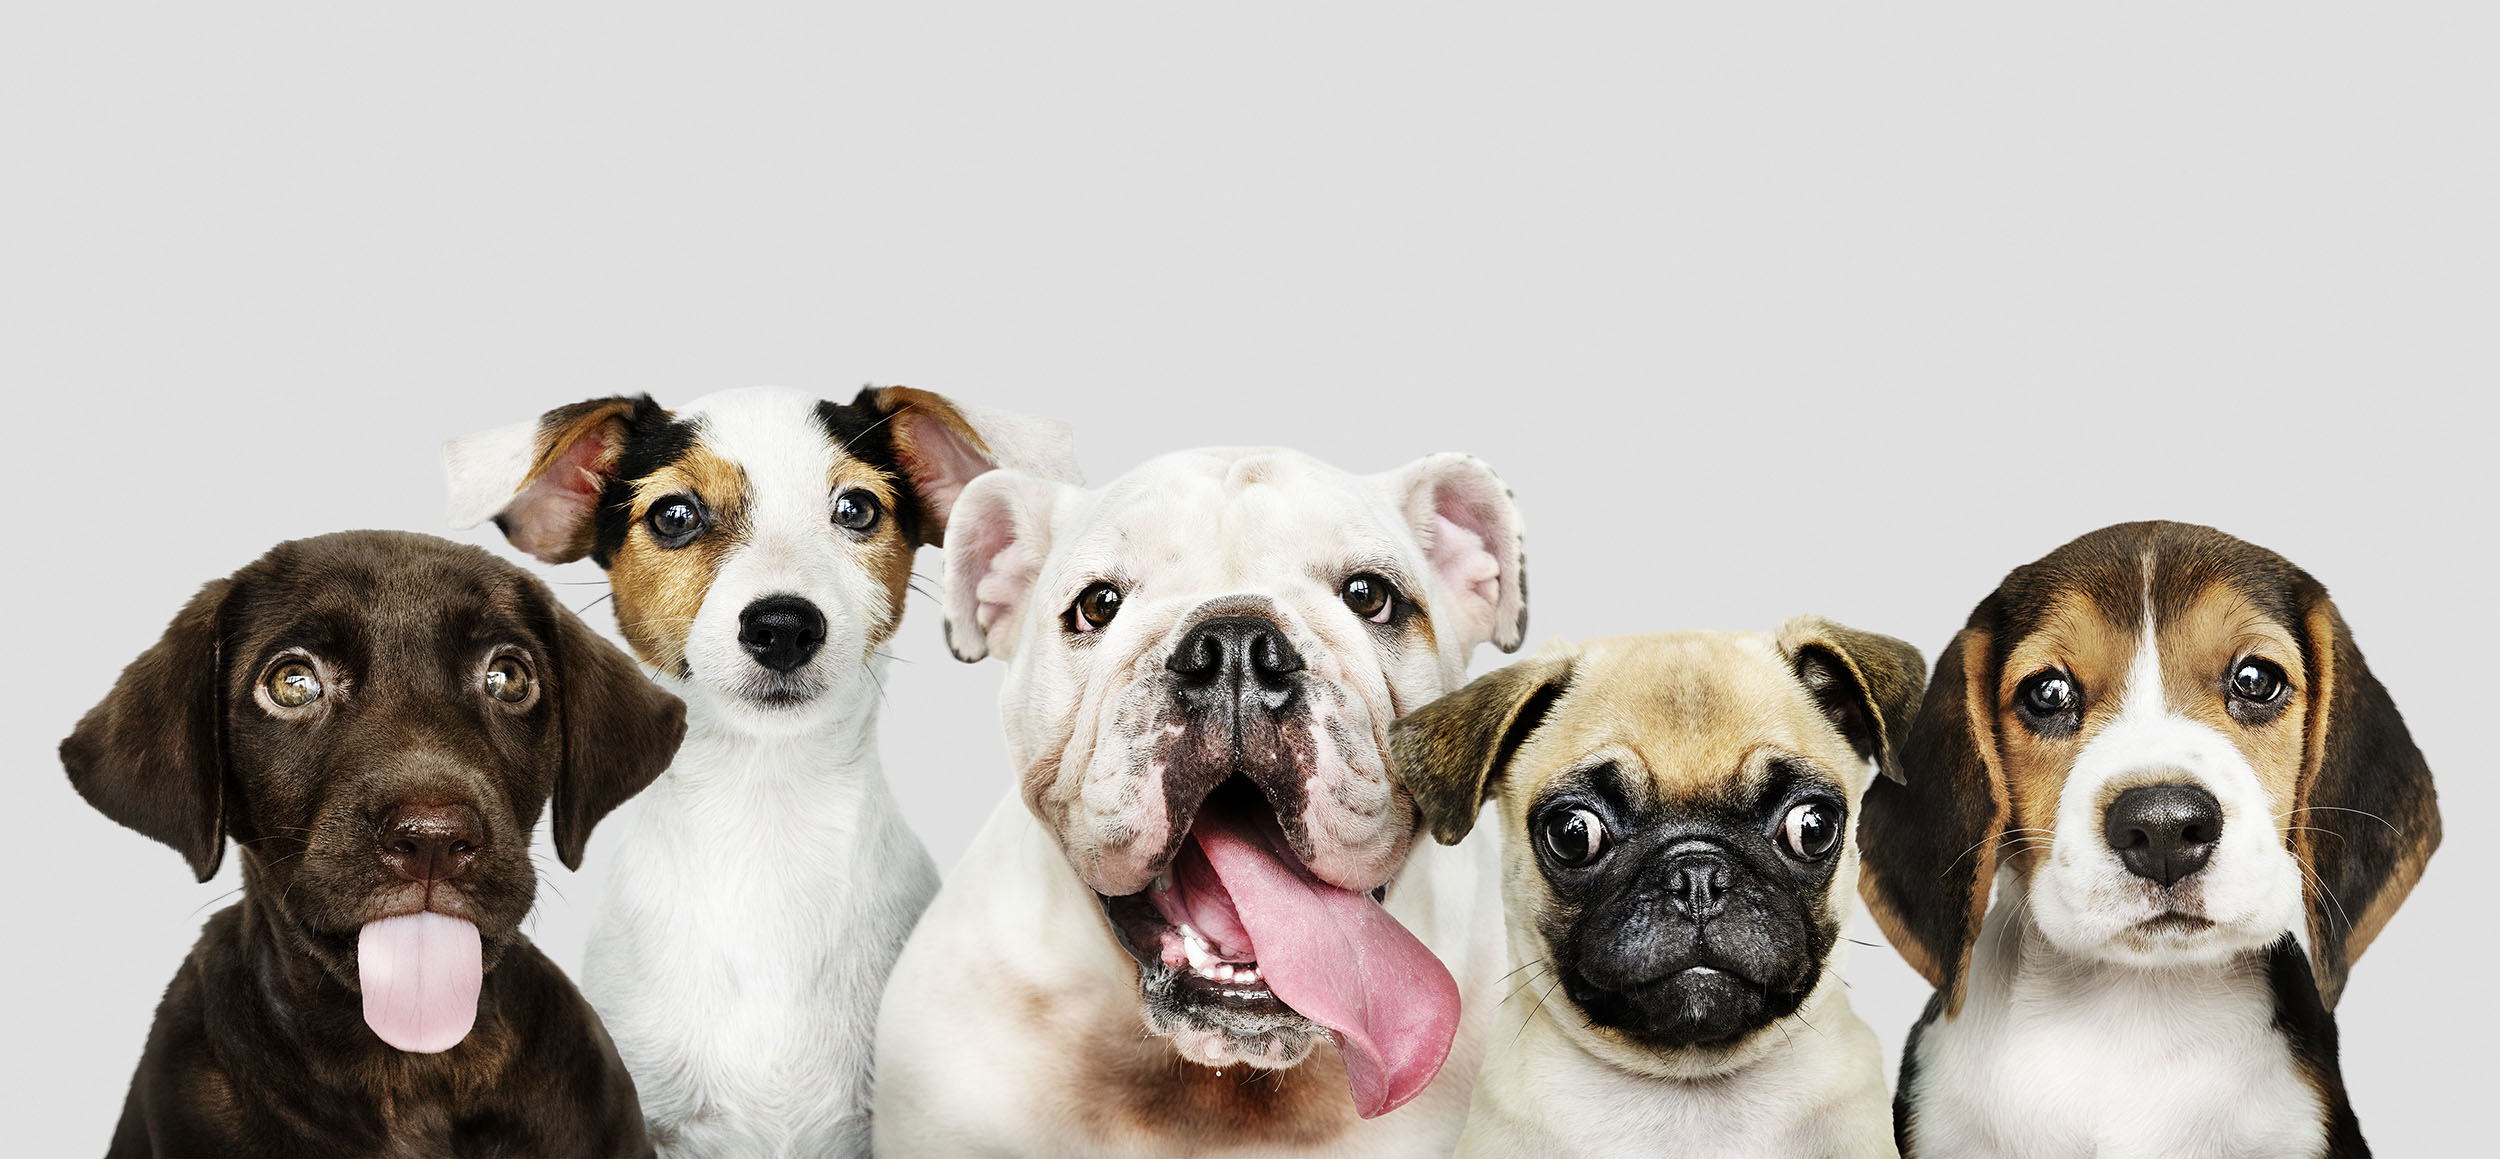
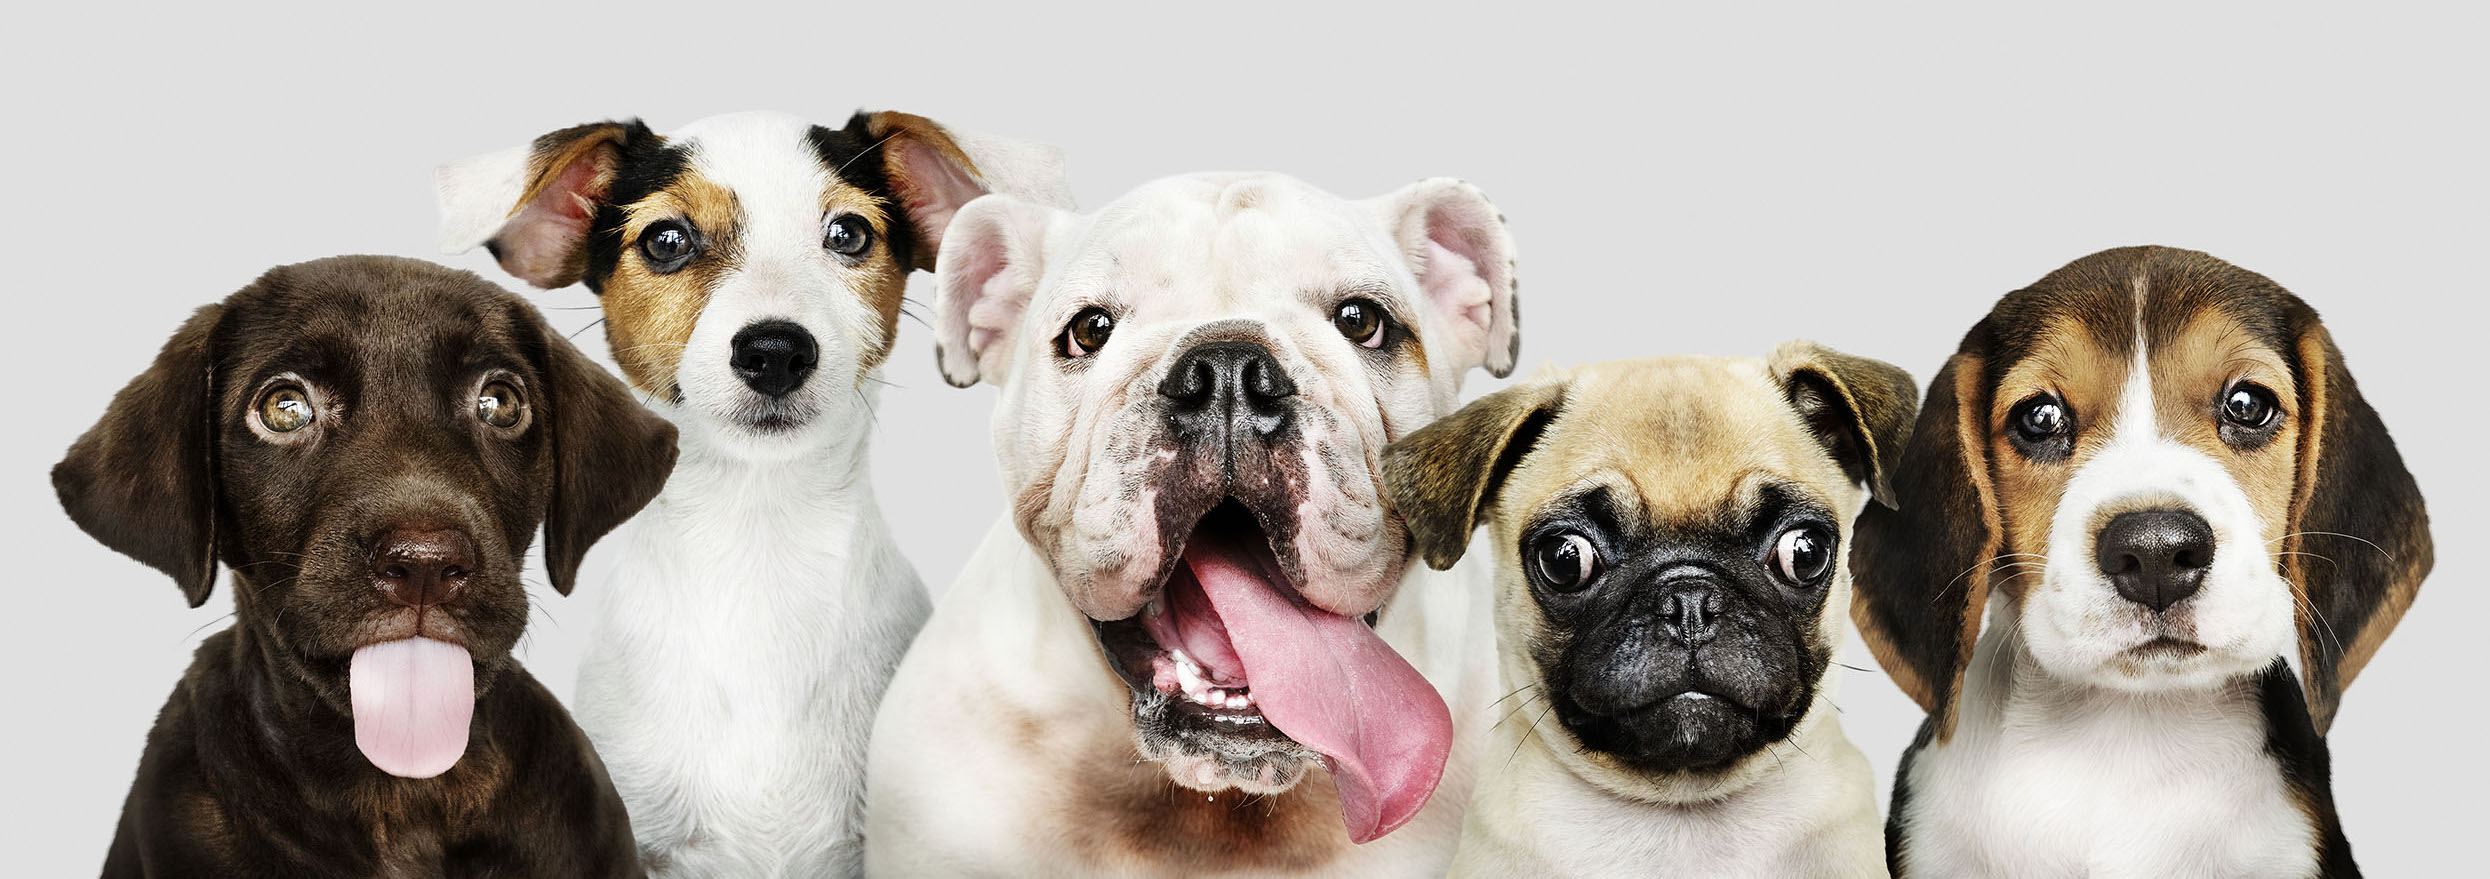
PPP-12 Styled About page implemented.

diff --git a/src/pages/HeaderPages/About.js b/src/pages/HeaderPages/About.js
@@ -1,10 +1,25 @@
+import Service from "../../assets/service-flow.jpg";
+
+import classes from "./About.module.css";
 
 const About = () => {
-    return (
-        <>
-          <h1>The About page</h1>
-        </>
-      );
+  return (
+    <>
+      <h1 className={classes.headline}>About Pet Parent Pro</h1>
+      <p className={classes.text}>
+        Welcome to the neighborhood network of trusted pet sitters and lovely
+        dogs. Whether you need a dog sitter for the day or overnight boarding,
+        there’s a sitter on PPP who’s the perfect match for you and your dogs.
+        We are there for your pet when you can't be!
+      </p>
+      <h2 className={classes.headline}>
+        Meet Sitters who will treat your dogs like family!
+      </h2>
+      <div className={classes.icon}>
+        <img src={Service} alt="Dog boarding icon" />
+      </div>
+    </>
+  );
 };
 
 export default About;

diff --git a/src/pages/HeaderPages/Home.js b/src/pages/HeaderPages/Home.js
@@ -1,24 +1,18 @@
-
 import IconWrapper from "../../components/HomePageComponents/Wrappers/IconWrapper";
 import ButtonWrapper from "../../components/HomePageComponents/Wrappers/ButtonWrapper";
 import DogIcon from "../../components/HomePageComponents/Buttons/DogButton";
 import SitterIcon from "../../components/HomePageComponents/Buttons/SitterButton";
 
-
 const Home = () => {
-
-  
-
-
-    return (
-        <>
-        <IconWrapper />
-        <ButtonWrapper>
-          <SitterIcon />
-          <DogIcon />
-        </ButtonWrapper>
-        </>
-      );
+  return (
+    <>
+      <IconWrapper />
+      <ButtonWrapper>
+        <SitterIcon />
+        <DogIcon />
+      </ButtonWrapper>
+    </>
+  );
 };
 
 export default Home;

diff --git a/src/pages/HeaderPages/About.module.css b/src/pages/HeaderPages/About.module.css
@@ -1,0 +1,34 @@
+.headline {
+  display: flex;
+  justify-content: space-evenly;
+  align-items: center;
+  color: #695265;
+  font-weight: bold;
+  margin-top: 2em;
+  margin-bottom: 2em;
+}
+
+.text {
+  display: flex;
+  justify-content: space-evenly;
+  align-items: center;
+  flex-wrap: wrap;
+  color: #5f455a;
+  font-size: 20px;
+  border-style: solid;
+  border-color: #a38f9f86;
+  border-width: thin;
+  border-radius: 10px;
+  padding: 30px;
+  margin-left: 15em;
+  margin-right: 15em;
+  margin-bottom: 4em;
+}
+
+.icon {
+  display: flex;
+  justify-content: center;
+  align-items: center;
+  width: 100%;
+  height: 100%;
+}

diff --git a/src/components/Layout/Header.module.css b/src/components/Layout/Header.module.css
@@ -58,7 +58,7 @@
 
 .main-image {
   width: 100%;
-  height: 45rem;
+  height: 30rem;
   z-index: 0;
   overflow: hidden;
 }
@@ -67,5 +67,5 @@
   width: 110%;
   height: 100%;
   object-fit: cover;
-  transform: rotateZ(-2deg) translateY(-7rem) translateX(-2rem);
+  transform: rotateZ(-2deg) translateY(-2rem) translateX(-6rem);
 }
